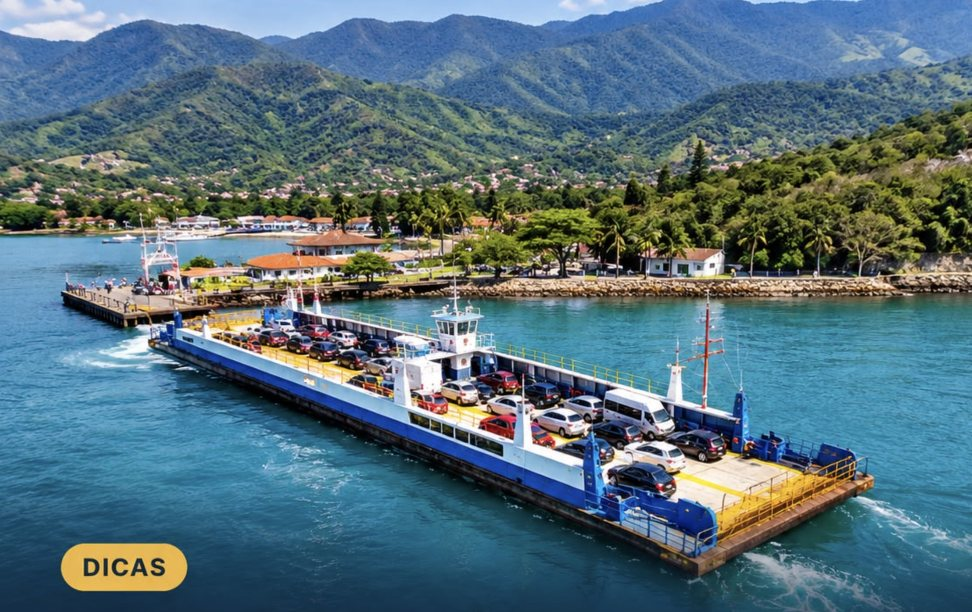
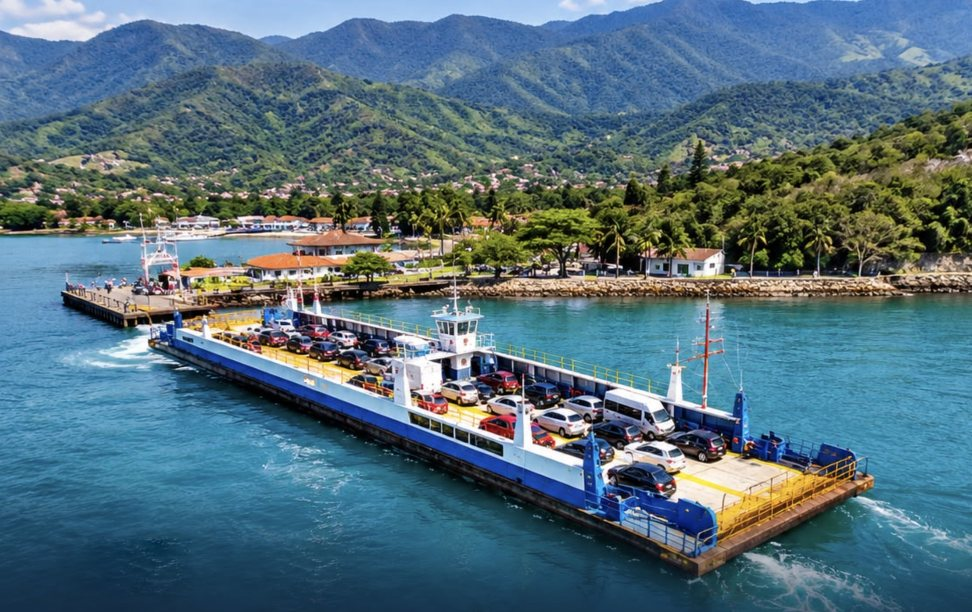
Blog balsa: remove selo Dicas da foto
Claude-Session: https://claude.ai/code/session_01LyobWvN6AwtV5H3TreHnyU

Changed region(s): [[0.0617, 0.8693, 0.216, 0.9935]]

diff --git a/blog.html b/blog.html
@@ -104,7 +104,7 @@ main{max-width:1100px;margin:0 auto;padding:40px 36px 70px}
 <main>
   <article class="post" data-cat="Dicas" id="como-chegar-ilhabela-balsa">
     <div class="post-topo">
-      <div class="post-capa"><img src="img/site/blog-balsa.jpg" alt="Balsa com carros chegando a Ilhabela" loading="lazy" decoding="async"/><span class="blog-tag">Dicas</span></div>
+      <div class="post-capa"><img src="img/site/blog-balsa.jpg?v=2" alt="Balsa com carros chegando a Ilhabela" loading="lazy" decoding="async"/><span class="blog-tag">Dicas</span></div>
       <div class="post-resumo">
         <h2>Como chegar em Ilhabela e onde embarcar no seu passeio</h2>
         <p class="post-intro">Balsa, tarifas, dicas para evitar fila e os principais pontos de embarque dos passeios.</p>

diff --git a/index.html b/index.html
@@ -2701,7 +2701,7 @@ html.abas[data-aba="contato"] body > .footer{padding-bottom:calc(84px + env(safe
     <div class="blog-lista">
       <article class="blog-item">
         <a class="blog-card" href="blog.html#como-chegar-ilhabela-balsa" aria-label="Como chegar em Ilhabela e onde embarcar no seu passeio">
-          <div class="blog-capa"><img src="img/site/blog-balsa.jpg" alt="Balsa com carros chegando a Ilhabela" loading="lazy" decoding="async"/></div>
+          <div class="blog-capa"><img src="img/site/blog-balsa.jpg?v=2" alt="Balsa com carros chegando a Ilhabela" loading="lazy" decoding="async"/></div>
           <span class="blog-tag">Dicas</span>
         </a>
         <div class="blog-intro">
